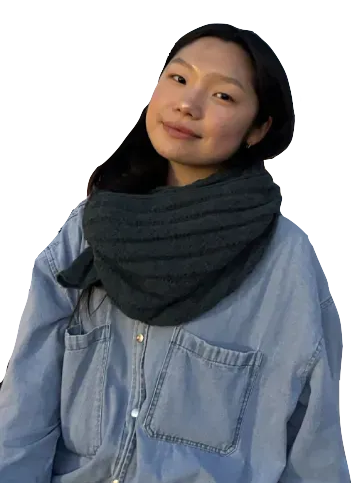
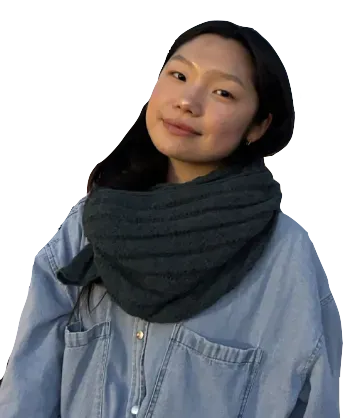
fixed suan's photo

diff --git a/MalawiPage.html b/MalawiPage.html
@@ -143,12 +143,12 @@
                 </div>
                 <div class="card">
                     <div class="image-wrapper">
-                        <img src="images/Suan.png" alt="Photo">
+                        <img src="images/Suan_photo.png" alt="Photo">
                     </div>
                     <div class="cardcontainer">
                         <h3>Malawi Grants Lead</h3>
                         <p><b>Suan Lee</b></p>
-                        <p><i> </i></p>
+                        <p><i>Major??</i></p>
                     </div>
                 </div>
                 <div class="card">
